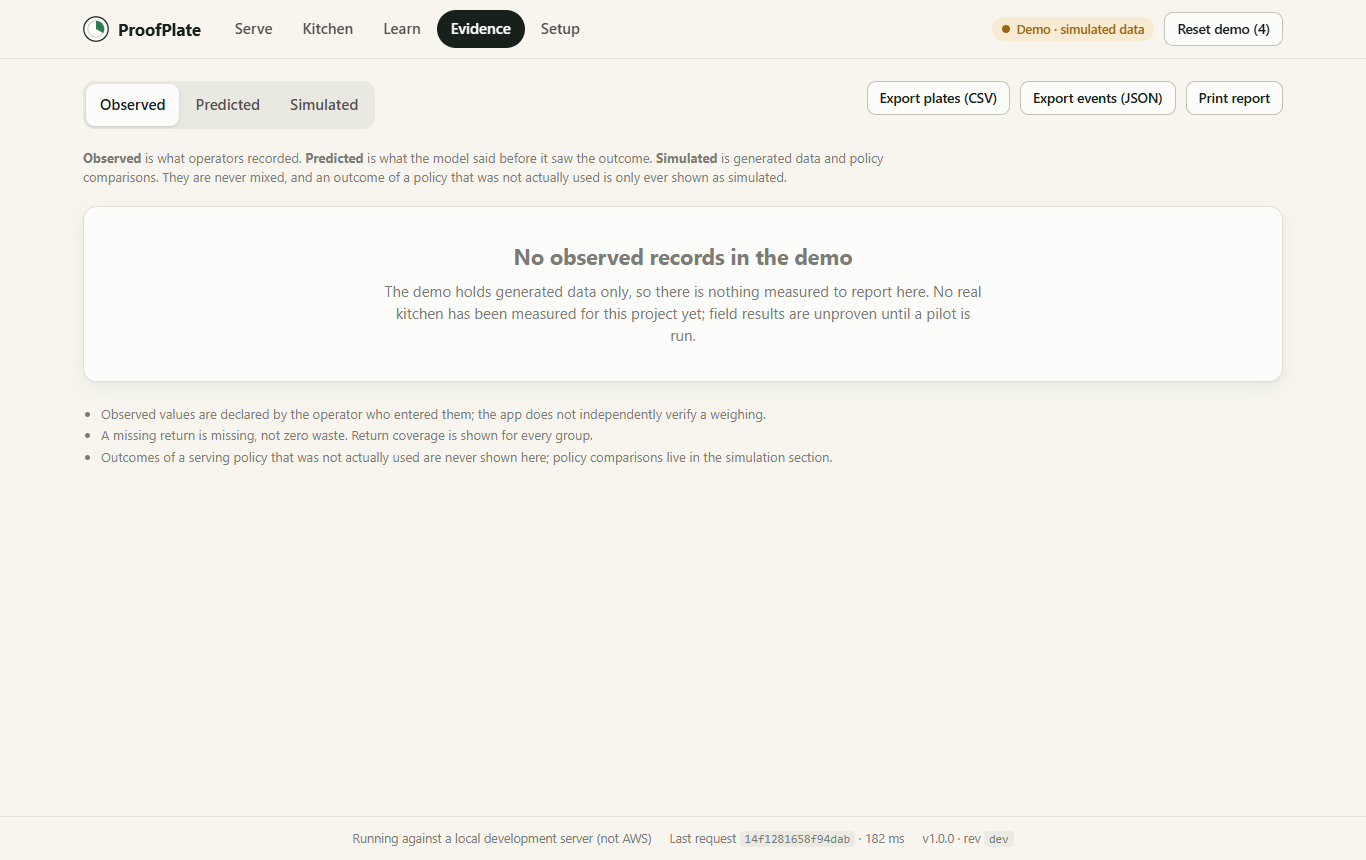
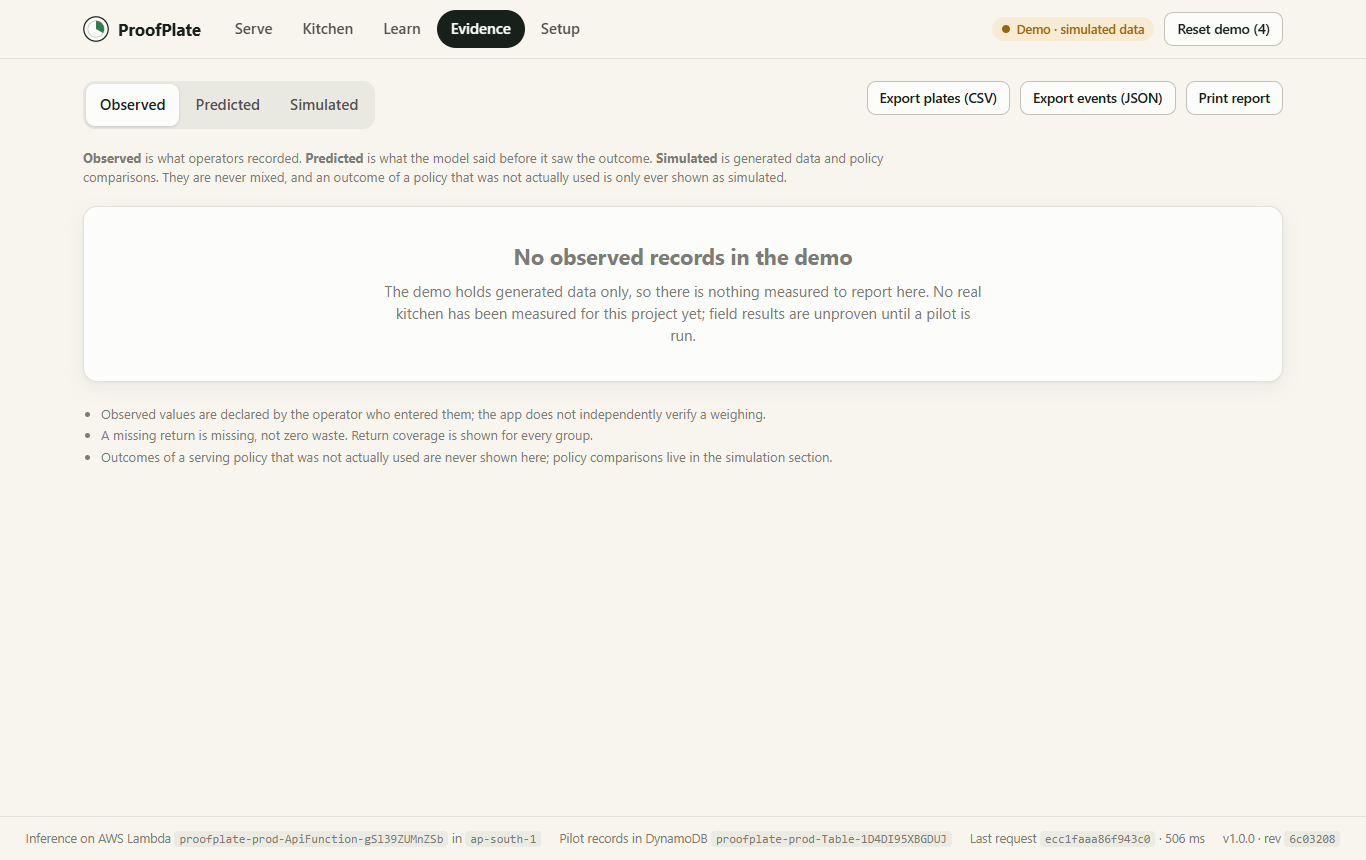
Record the verified AWS deployment

Changed region(s): [[0.0307, 0.9674, 0.9839, 0.9977]]

diff --git a/DEPLOYMENT.md b/DEPLOYMENT.md
@@ -2,14 +2,40 @@
 
 ## Status
 
-**Not deployed yet.** The application, the Lambda package and the infrastructure template are built and tested locally. Deployment is waiting on one external step: an AWS session on the build machine (`aws login`). No URL exists until that is done; this section is replaced with real values by the first successful `scripts\deploy.ps1` run.
+**Deployed and verified on AWS, without CloudFront.**
+
+| | |
+|---|---|
+| App and API | https://imh92ymqaa.execute-api.ap-south-1.amazonaws.com |
+| Region | ap-south-1 (Mumbai) |
+| Stack | `proofplate-prod` (CloudFormation, SAM) |
+| Deployed revision | `6c03208` (see `/api/health`) |
+| Deployed | 11 October 2026, about 22:28 IST |
+
+**Why no CloudFront.** The first deploy failed at the CloudFront distribution: *"Your account must be verified before you can add new CloudFront resources"* (AWS Support verification is needed on a new account). The stack was rolled back and redeployed with `-NoCloudFront`. The web app is therefore served by the Lambda through the API Gateway HTTPS URL, which is a supported fallback in the template. The S3 bucket and Origin Access Control from the full design are not used in this deployment, and the web bucket created by the stack is empty. Once the account is verified, `scripts\deploy.ps1` without `-NoCloudFront` adds CloudFront and publishes the app to S3.
+
+### What was verified on the live deployment
 
 | Check | Result |
 |---|---|
-| Lambda package builds without Docker (Linux wheels, python3.13, x86_64) | Done locally: 59 MB unzipped |
-| Stack deployed | Pending AWS sign-in |
-| HTTPS app URL | Pending |
-| Live smoke test, deep links, model update, persistence across redeploy, tenant isolation | Pending |
+| `GET /api/health` | `ok`, store `dynamo`, region `ap-south-1`, Lambda function name returned |
+| Deep link `/demo/kitchen` | 200, HTML app shell |
+| Missing asset `/assets/nope.js` | 404, JSON (not the app shell) |
+| Pilot API without a token | 401 |
+| Pilot API with the local-dev header `x-dev-user` | 401 (development sign-in is not available on AWS) |
+| Public demo browser walkthrough (desktop 1366 px and phone 390 px) | passed against the live URL |
+| Pilot browser flow with real Cognito sign-in: calibrate, serve, seconds, return, changed suggestion, reload, correction, evidence, sign out | passed; records written to and read from DynamoDB |
+| Tenant isolation: operator of a second site | sees 0 foods, services and diners; a forged `site_id` in the body is rejected with 422 |
+| Warm latency from the build machine, Mumbai region, including network | demo bootstrap about 0.25 s; kitchen plan about 1.1 s |
+| Test data | a throwaway operator and records were used, then deleted; the table and user pool are empty |
+
+### Not verified
+
+- CloudFront, S3 publishing and the deep-link rewrite function (not created).
+- Cold-start time (not measured separately).
+- Records surviving a redeploy: the table has a Retain policy and was not replaced by the second deploy, but a redeploy with data in it was not tested.
+- Deployment from a second AWS account.
+- The deployment ran as the account's root user; use a least-privilege IAM user for routine redeploys.
 
 ## What gets created
 

diff --git a/SUBMISSION.md b/SUBMISSION.md
@@ -5,7 +5,7 @@
 
 | | |
 |---|---|
-| Live app | see `DEPLOYMENT.md` |
+| Live app | https://imh92ymqaa.execute-api.ap-south-1.amazonaws.com |
 | Repository | https://github.com/alabhya-git/aws_env |
 | Demo video | *(add the YouTube URL)* |
 | Team | *(add names)* |
@@ -45,7 +45,7 @@ Everything runs on AWS, defined in one SAM template (`infra/template.yaml`).
 | **Amazon API Gateway** (HTTP API) | HTTPS front door for the API, with throttling and a JWT authorizer on pilot routes |
 | **Amazon DynamoDB** | Durable pilot records. Events are immutable; one transaction per write enforces idempotency and a per-plate counter so two stations cannot corrupt a plate |
 | **Amazon Cognito** | Operator sign-in for the pilot workspace. No public sign-up |
-| **Amazon S3 + CloudFront** | Private bucket behind Origin Access Control serves the web app; CloudFront routes `/api/*` to the API so everything is one origin |
+| **Amazon S3 + CloudFront** | In the template (private bucket, Origin Access Control). **Not active in the live deployment:** CloudFront needs account verification on a new AWS account, so the Lambda serves the web app through API Gateway instead |
 | **CloudWatch Logs** | Structured request logs without diner payloads |
 | **AWS SAM / CloudFormation** | Repeatable deployment; the Lambda package is built without Docker |
 
@@ -78,7 +78,7 @@ These are properties of a simulator built on stated assumptions. They are not me
 
 - 79 automated tests pass: numerics against SciPy, likelihoods against analytic values, censoring behaviour, policy and planner constraints, mass balance, idempotency, corrections, tenant isolation, demo/pilot isolation, and one storage contract run against in-memory, SQLite and DynamoDB (moto) adapters.
 - A scripted Chrome walkthrough covers serve → seconds → return → changed suggestion → kitchen recompute → infeasible plan → evidence export, at desktop and phone widths.
-- Deployment checks are recorded in `DEPLOYMENT.md`.
+- Deployed to AWS ap-south-1 and checked from outside: public demo walkthrough and a Cognito-signed-in pilot flow against DynamoDB, plus tenant-isolation and auth-failure checks. Results, and what was not verified, are in `DEPLOYMENT.md`.
 
 ## Limitations
 

diff --git a/PROGRESS.md b/PROGRESS.md
@@ -5,7 +5,7 @@ Updated 11 October 2026, evening IST. Three statuses are kept apart on purpose.
 | | Status |
 |---|---|
 | Software implemented | **Yes**, tested locally (details below) |
-| Cloud deployment verified | **No.** Waiting on an AWS session (`aws login`) on the build machine |
+| Cloud deployment verified | **Yes, without CloudFront.** https://imh92ymqaa.execute-api.ap-south-1.amazonaws.com (ap-south-1). Details and gaps in `DEPLOYMENT.md` |
 | Field evidence collected | **No.** Nothing has been measured in a real kitchen |
 
 ## Built
@@ -62,7 +62,7 @@ Photo attachments, camera plate matching, connected scale, bilingual text, offli
 
 ## Waiting on people
 
-1. `aws login` on the build machine, then `scripts\deploy.ps1`.
+1. ~~`aws login`, then `scripts\deploy.ps1`.~~ Done. Remaining: AWS Support verification of the account so CloudFront can be added.
 2. ~~A public GitHub repository URL to push to.~~ Done: pushed to https://github.com/alabhya-git/aws_env.
 3. Narrated demo recording, YouTube upload and form submission.
 4. The team's list of any other AI tools used, for `SUBMISSION.md`.

diff --git a/README.md b/README.md
@@ -23,7 +23,7 @@ A system that treats every empty plate as "that amount was right" keeps under-se
 | | Status |
 |---|---|
 | Software | Implemented and tested. See "Verification" below |
-| AWS deployment | See `DEPLOYMENT.md` for the live URL and what was verified |
+| AWS deployment | Live at https://imh92ymqaa.execute-api.ap-south-1.amazonaws.com (Lambda, API Gateway, DynamoDB, Cognito; CloudFront pending account verification). See `DEPLOYMENT.md` |
 | Field evidence | **None collected.** No real kitchen has been measured. Every result in this repository is simulated and labelled so |
 
 ## What it does
